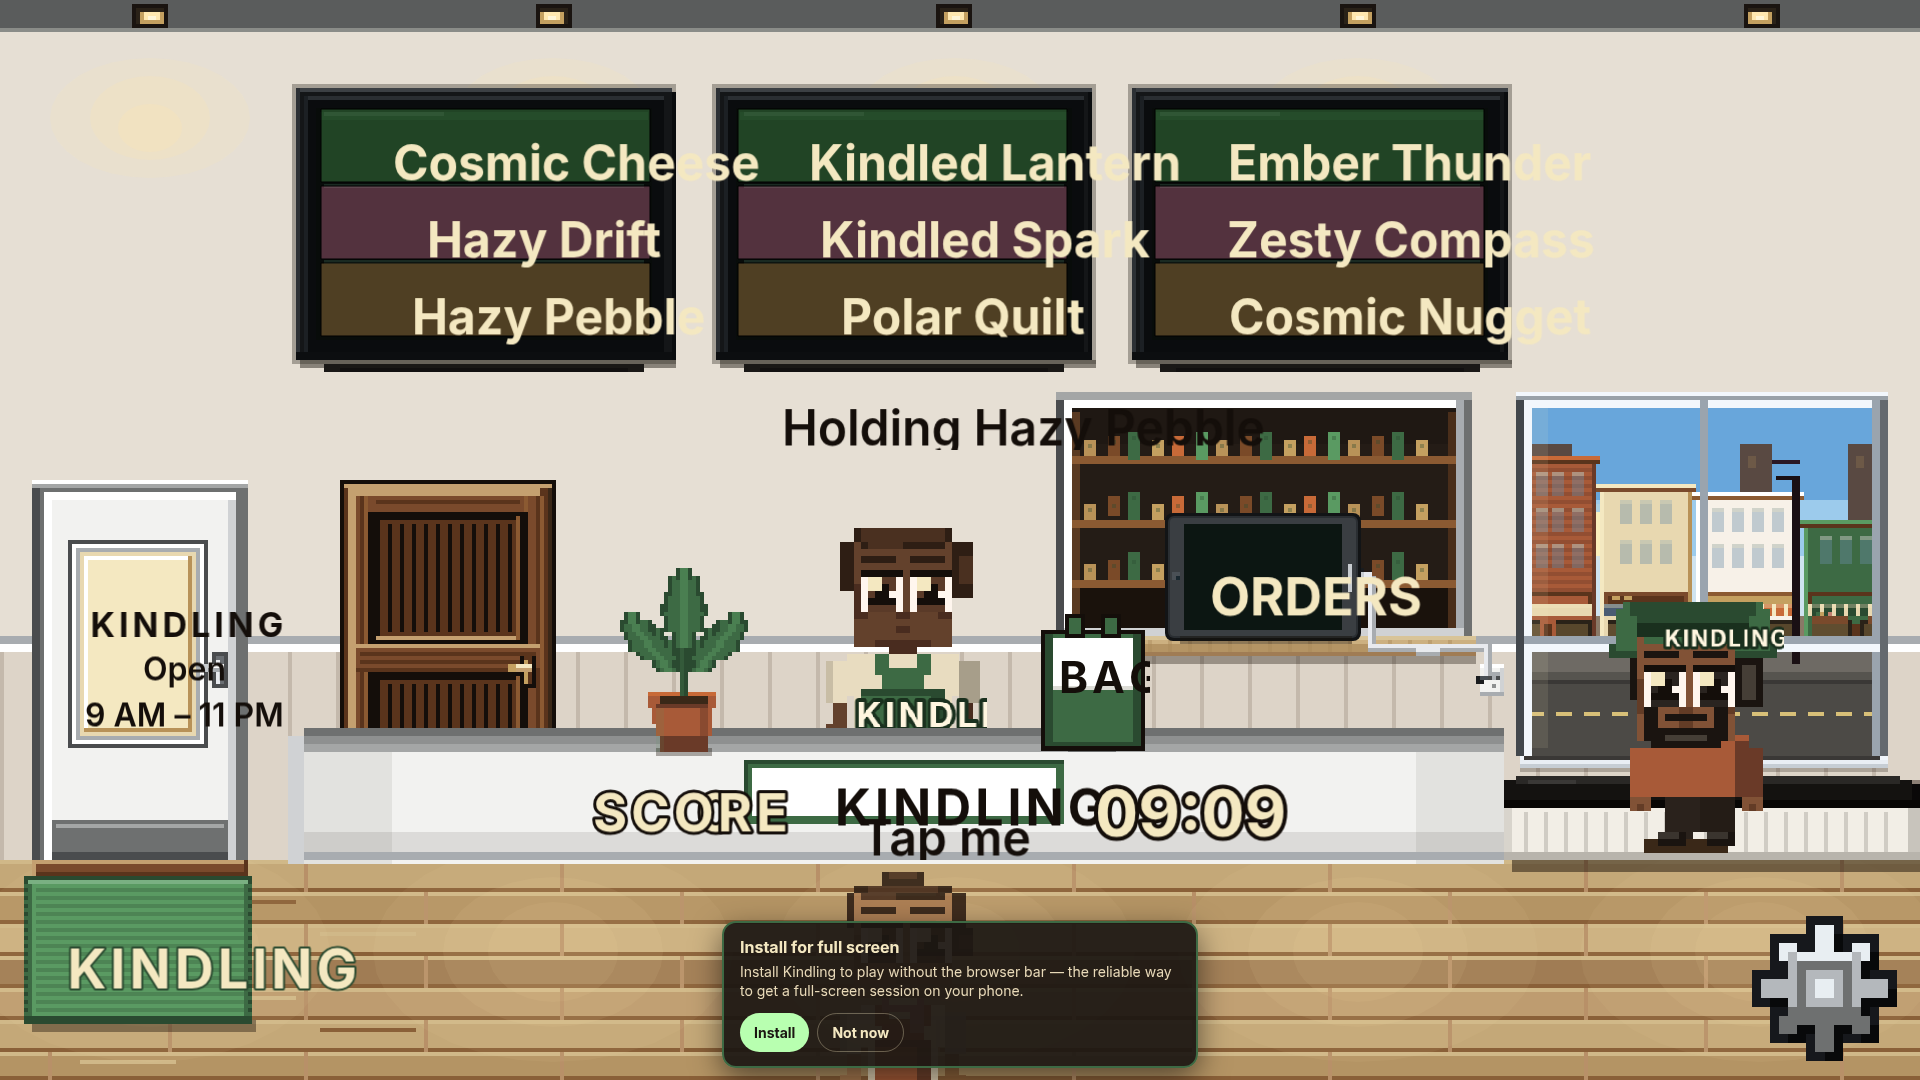
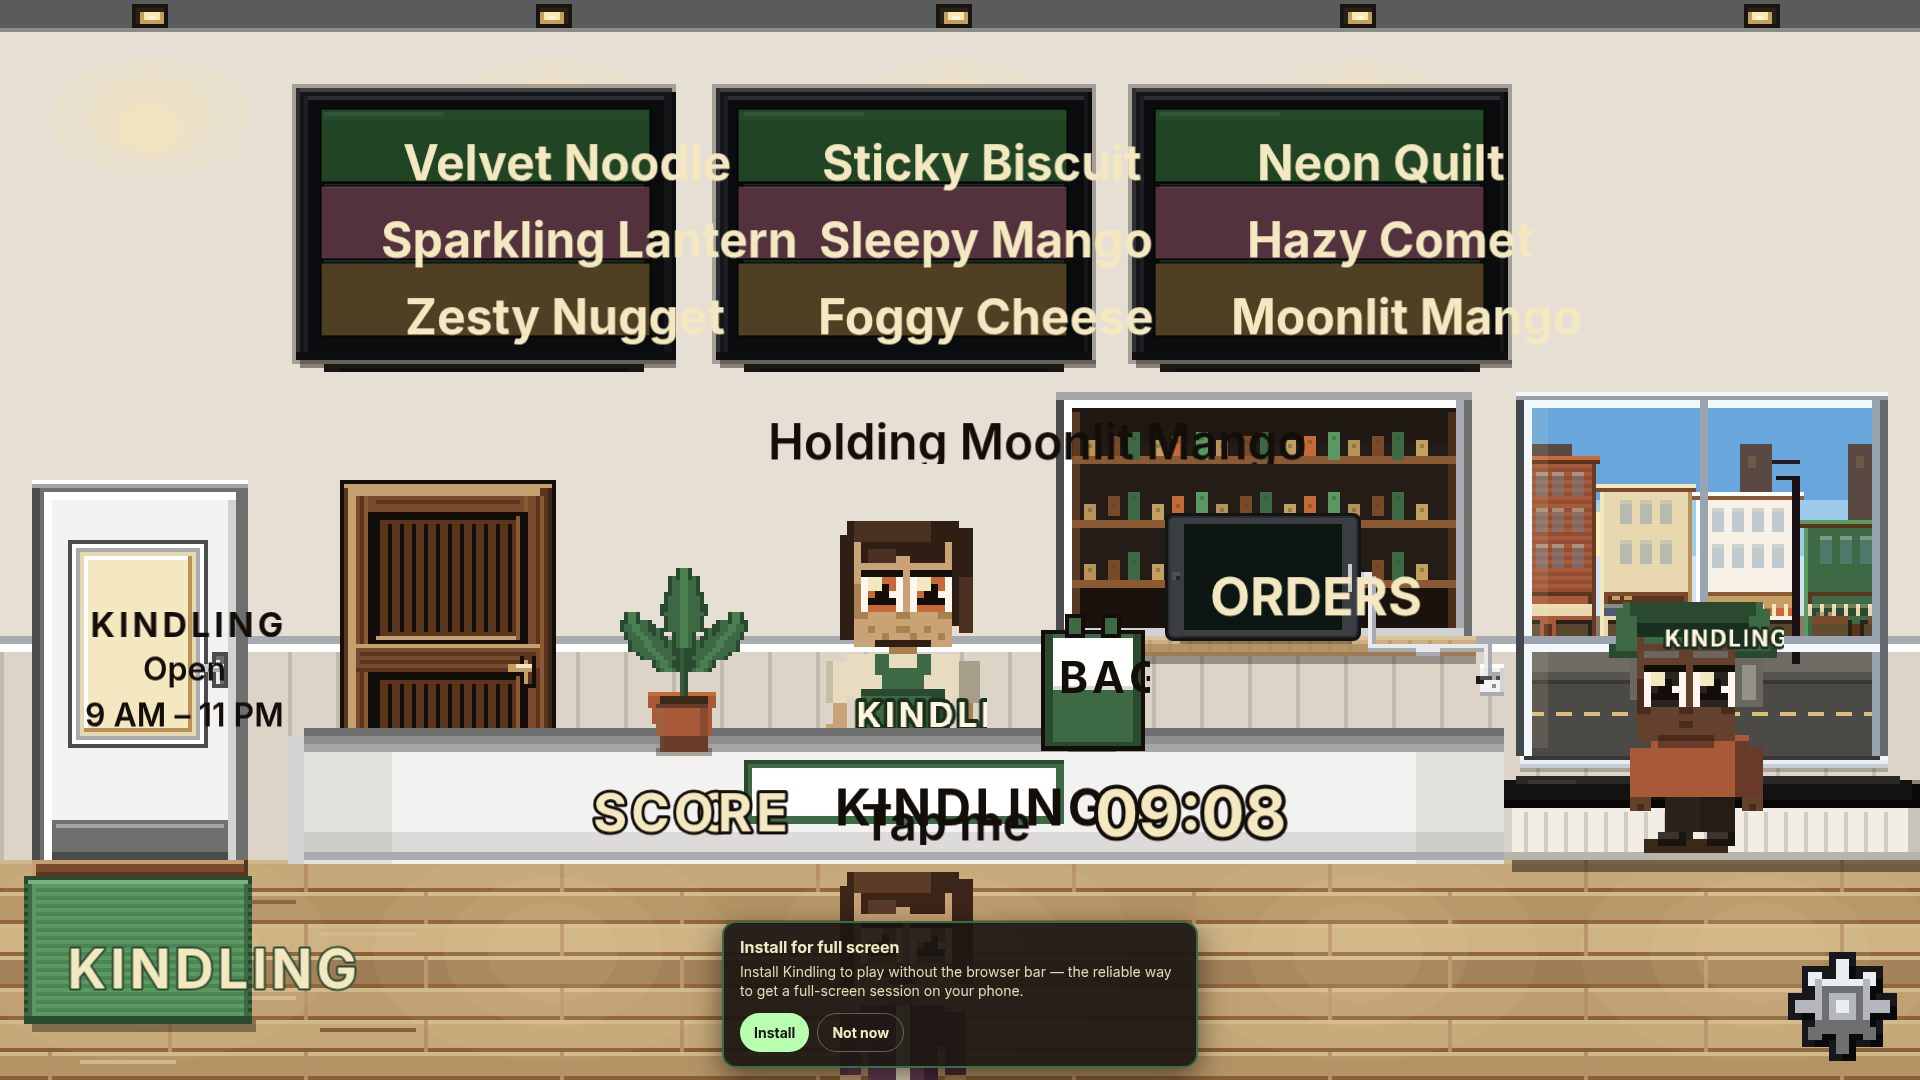
fix(ui): lower key-lead speech, raise customer ink, pin badge on tablet
- SHOP_KEY_LEAD_SPEECH_GAP 45→20 (25px lower key-lead plaques)
- Customer speech inkShiftY +15 inside plaque chrome (signText inkShiftY)
- Queue badge: scrollFactor 1 + setSignPlaqueCenter from panelW/H so
  host locals with origin (1,0) no longer park the chip on the driver
- Settings cog display 75% of touch floor (HUD_COG_DISPLAY_SIZE)
- Refresh layout tests and kindling-shots captures

diff --git a/src/ui/signText.ts b/src/ui/signText.ts
@@ -35,9 +35,12 @@ export interface SignTextOptions extends UiTextOptions {
   padX?: number;
   /** @deprecated Prefer {@link padVariant}. */
   padY?: number;
+  /** Raise (+) or lower (−) glyph ink inside the plaque without moving the chrome. */
+  inkShiftY?: number;
 }
 
 const SIGN_PAD = "signPad";
+const SIGN_INK_SHIFT = "signInkShiftY";
 
 function signPads(text: Phaser.GameObjects.Text): { x: number; y: number } {
   const custom = text.getData(SIGN_PAD) as { x: number; y: number } | undefined;
@@ -364,8 +367,9 @@ function layoutPlaque(entry: SignPlaqueEntry): void {
   const tex = plaqueTextureForAccent(accent);
   if (plaque.texture.key !== tex) plaque.setTexture(tex);
 
+  const inkShiftY = (text.getData(SIGN_INK_SHIFT) as number | undefined) ?? 0;
   const textX = -w * text.originX;
-  const textY = -h * text.originY;
+  const textY = -h * text.originY - inkShiftY;
   const plaqueCenter = plaqueCenterFromGlyphs(text, layout);
   // Always repair inner layout — patched setPosition must not leave glyphs orphaned at (0,0).
   entry.setTextLocal(textX, textY);
@@ -384,7 +388,7 @@ function layoutPlaque(entry: SignPlaqueEntry): void {
     return;
   }
 
-  const key = [copy, w, h, text.originX, text.originY, accent, text.depth, tex, pad.x, pad.y].join(":");
+  const key = [copy, w, h, text.originX, text.originY, accent, text.depth, tex, pad.x, pad.y, inkShiftY].join(":");
   if (key === entry.lastLayoutKey) {
     entry.dirty = false;
     return;
@@ -407,7 +411,7 @@ export function addSignText(
   content: string,
   options: SignTextOptions = {},
 ): Phaser.GameObjects.Text {
-  const { accent, padVariant, padX, padY, padding: _pad, ...style } = options;
+  const { accent, padVariant, padX, padY, inkShiftY, padding: _pad, ...style } = options;
   const host = scene.add.container(x, y);
   const text = makeType(scene, 0, 0, content, {
     ...(style as TypeStyle),
@@ -424,6 +428,7 @@ export function addSignText(
         ? { x: padX ?? SIGN_PAD_X, y: padY ?? SIGN_PAD_Y }
         : padForVariant("default");
   text.setData(SIGN_PAD, pads);
+  if (inkShiftY !== undefined) text.setData(SIGN_INK_SHIFT, inkShiftY);
 
   const plaque = makePlaqueNineSlice(scene, pads.x * 2 + 8, pads.y * 2 + 8, accent ?? SIGN_BORDER);
   host.add([plaque, text]);

diff --git a/src/scenes/ShopScene.ts b/src/scenes/ShopScene.ts
@@ -122,6 +122,8 @@ const TABLET_LABEL_INSET = 2;
 /** Wider side margin than default SIGN_PAD so long one-line speech is not edge-tight. */
 const SHOP_SPEECH_PAD_X = SIGN_PAD_X + 12;
 const SHOP_SPEECH_PAD_Y = SIGN_PAD_Y;
+/** Customer order ink sits higher inside the plaque chrome — not key-lead speech. */
+const CUSTOMER_SPEECH_INK_RAISE = 15;
 
 /** Concurrent customers the pool covers without mid-frame allocate (4 is typical peak). */
 const CUSTOMER_VISUAL_POOL = 4;
@@ -275,6 +277,7 @@ export class ShopScene extends Phaser.Scene {
       .setOrigin(1, 0)
       .setDepth(13)
       .setVisible(false);
+    setSignScrollFactor(this.queueBadge, 1, 1);
     this.pinQueueBadge(tab);
 
     this.targetCallout = addSignText(this, 0, 0, "", {
@@ -656,15 +659,19 @@ export class ShopScene extends Phaser.Scene {
     this.tabletLabel.setPosition(x, y);
   }
 
-  /** Top-right of the ORDERS tablet screen — re-pin after every sync so plaque layout cannot drift. */
+  /** Top-right of the ORDERS tablet screen — plaque center from panel size, not host locals. */
   private pinQueueBadge(tab: ReturnType<typeof tabletLayout>, badgeInset = 6): void {
+    setSignScrollFactor(this.queueBadge, 1, 1);
     syncSignPlaque(this.queueBadge);
     const ext = signPlaqueExtents(this.queueBadge);
-    setSignPosition(
+    const screenRight = tab.screenLeft + tab.screenW - badgeInset;
+    const screenTop = tab.screenTop + badgeInset;
+    setSignPlaqueCenter(
       this.queueBadge,
-      tab.screenLeft + tab.screenW - badgeInset - ext.rightLocal,
-      tab.screenTop + badgeInset - ext.topLocal,
+      screenRight - ext.panelW / 2,
+      screenTop + ext.panelH / 2,
     );
+    setSignScrollFactor(this.queueBadge, 1, 1);
   }
 
   /**
@@ -832,6 +839,7 @@ export class ShopScene extends Phaser.Scene {
       noWrap: true,
       padX: SHOP_SPEECH_PAD_X,
       padY: SHOP_SPEECH_PAD_Y,
+      inkShiftY: CUSTOMER_SPEECH_INK_RAISE,
       maxWidth: CUSTOMER_SPEECH_MAX_W,
       maxHeight: CUSTOMER_SPEECH_H,
     })

diff --git a/src/ui/viewFit.test.ts b/src/ui/viewFit.test.ts
@@ -2,6 +2,7 @@ import { describe, expect, it, vi } from "vitest";
 import { GAME_HEIGHT, GAME_WIDTH } from "../sim/constants";
 import {
   GAME_ASPECT,
+  HUD_COG_DISPLAY_SIZE,
   HUD_TOUCH_MIN_DESIGN,
   MIN_CSS_TOUCH_PX,
   POPULAR_MOBILE_LANDSCAPE,
@@ -195,6 +196,10 @@ describe("HUD touch after scale", () => {
       expect(cssPxFromDesign(HUD_TOUCH_MIN_DESIGN, "y", view)).toBeGreaterThanOrEqual(MIN_CSS_TOUCH_PX - 0.5);
     }
   });
+
+  it("shrinks the settings cog display to 75% of the touch-floor box", () => {
+    expect(HUD_COG_DISPLAY_SIZE).toBe(HUD_TOUCH_MIN_DESIGN * 0.75);
+  });
 });
 
 describe("clientToGame pointer mapping", () => {
@@ -224,7 +229,7 @@ describe("settings cog viewport geometry", () => {
       const viewW = Math.round(GAME_WIDTH * scale);
       const viewH = Math.round(GAME_HEIGHT * scale);
       const cogRight = settingsCogX(viewW, 0);
-      expect(cogInsideHudViewport(cogRight, HUD_TOUCH_MIN_DESIGN, viewW)).toBe(true);
+      expect(cogInsideHudViewport(cogRight, HUD_COG_DISPLAY_SIZE, viewW)).toBe(true);
       expect(GAME_WIDTH - 24).toBeGreaterThan(viewW);
       expect(cogRight).toBeLessThanOrEqual(viewW);
       expect(viewH).toBeGreaterThan(600);

diff --git a/src/ui/hud/settings.ts b/src/ui/hud/settings.ts
@@ -10,7 +10,7 @@ import { addUiText } from "../text";
 import { settingsGeom, type SettingsGeom } from "../settingsGeom";
 import { Color, HUD_TYPE_FIT, MENU_TYPE_FIT } from "../theme";
 import type { SafeInset } from "../viewFit";
-import { hudSceneViewport, HUD_TOUCH_MIN_DESIGN } from "../viewFit";
+import { hudSceneViewport, HUD_COG_DISPLAY_SIZE } from "../viewFit";
 import { type ChipPlacer } from "./placeChips";
 import { chipPriority } from "./slots";
 import {
@@ -304,7 +304,7 @@ export class HudSettings {
 
     const cogX = GAME_WIDTH - 24;
     const cogY = GAME_HEIGHT - 20;
-    const cogSize = HUD_TOUCH_MIN_DESIGN;
+    const cogSize = HUD_COG_DISPLAY_SIZE;
     this.cog = this.scene.add
       .image(cogX, cogY, "tex-cog")
       .setOrigin(1, 1)
@@ -327,7 +327,7 @@ export class HudSettings {
   layout(inset: SafeInset): void {
     const { width: viewW, height: viewH } = hudSceneViewport(this.scene);
     this.syncViewportChrome(viewW, viewH);
-    const cogSize = HUD_TOUCH_MIN_DESIGN;
+    const cogSize = HUD_COG_DISPLAY_SIZE;
     let cogX = viewW - 24 - inset.right;
     const cogY = viewH - 20 - inset.bottom;
     this.cog.setPosition(cogX, cogY);

diff --git a/src/scenes/counterLayout.test.ts b/src/scenes/counterLayout.test.ts
@@ -231,8 +231,11 @@ describe("ORDERS queue badge", () => {
     expect(sync).toContain("this.pinQueueBadge(tab)");
     const pin = between(shop, "private pinQueueBadge(", "\n  }", "pinQueueBadge");
     expect(pin).toContain("syncSignPlaque(this.queueBadge)");
-    expect(pin).toContain("tab.screenLeft + tab.screenW - badgeInset - ext.rightLocal");
-    expect(pin).toContain("tab.screenTop + badgeInset - ext.topLocal");
+    expect(pin).toContain("setSignScrollFactor(this.queueBadge, 1, 1)");
+    expect(pin).toContain("setSignPlaqueCenter(");
+    expect(pin).toContain("this.queueBadge");
+    expect(pin).toContain("screenRight - ext.panelW / 2");
+    expect(pin).toContain("screenTop + ext.panelH / 2");
   });
 });
 

diff --git a/src/maps/shopT0.ts b/src/maps/shopT0.ts
@@ -126,7 +126,7 @@ export const CUSTOMER_SPEECH_H = 83;
 /** Daylight between stacked speech / feedback chips, and above a model's head when hanging. */
 export const CUSTOMER_SPEECH_GAP = 14;
 /** Key-lead holding/callout clearance above the hat line — door prompt feel. */
-export const SHOP_KEY_LEAD_SPEECH_GAP = 45;
+export const SHOP_KEY_LEAD_SPEECH_GAP = 20;
 /** @deprecated Side chips removed — kept for width math in legacy callers. */
 export const CUSTOMER_SPEECH_SIDE_GAP = 12;
 /** Hair sits this far below the counter front so heads stay fully visible. */

diff --git a/src/scenes/shopSpeech.test.ts b/src/scenes/shopSpeech.test.ts
@@ -118,6 +118,9 @@ describe("speech stays off the models it belongs to", () => {
     expect(make, "customer order stays single-line with wider pad").toMatch(
       /noWrap: true[\s\S]*padX: SHOP_SPEECH_PAD_X/,
     );
+    expect(make, "customer ink raised inside the plaque chrome").toMatch(
+      /inkShiftY: CUSTOMER_SPEECH_INK_RAISE/,
+    );
     expect(sync, "look guarded before applyPersonTexture").toMatch(
       /if \(visual\.look !== customer\.look\)[\s\S]*applyPersonTexture\(visual\.sprite, customer\.look\)/,
     );

diff --git a/src/ui/viewFit.ts b/src/ui/viewFit.ts
@@ -202,6 +202,8 @@ export function minDesignPx(
 
 /** Design pixels so a HUD control stays ≥ {@link MIN_CSS_TOUCH_PX} after the worst Y scale. */
 export const HUD_TOUCH_MIN_DESIGN = minDesignPx(MIN_CSS_TOUCH_PX, "y");
+/** Settings cog display size — 25% smaller than the touch-floor box. */
+export const HUD_COG_DISPLAY_SIZE = HUD_TOUCH_MIN_DESIGN * 0.75;
 
 export function designSafeInset(view: ViewSize, css: SafeInset): SafeInset {
   return {

diff --git a/src/scenes/hudSettings.test.ts b/src/scenes/hudSettings.test.ts
@@ -77,6 +77,7 @@ describe("settings cog panel", () => {
     expect(create).toContain('this.cogHit.on("pointerdown", toggleSettings)');
     expect(create).not.toContain("this.cog.on(\"pointerdown\"");
     expect(create).toMatch(/\.setDisplaySize\(cogSize, cogSize\)/);
+    expect(settings).toContain("HUD_COG_DISPLAY_SIZE");
   });
 
   it("anchors settings chrome to the live HUD viewport — cog hit only", () => {
